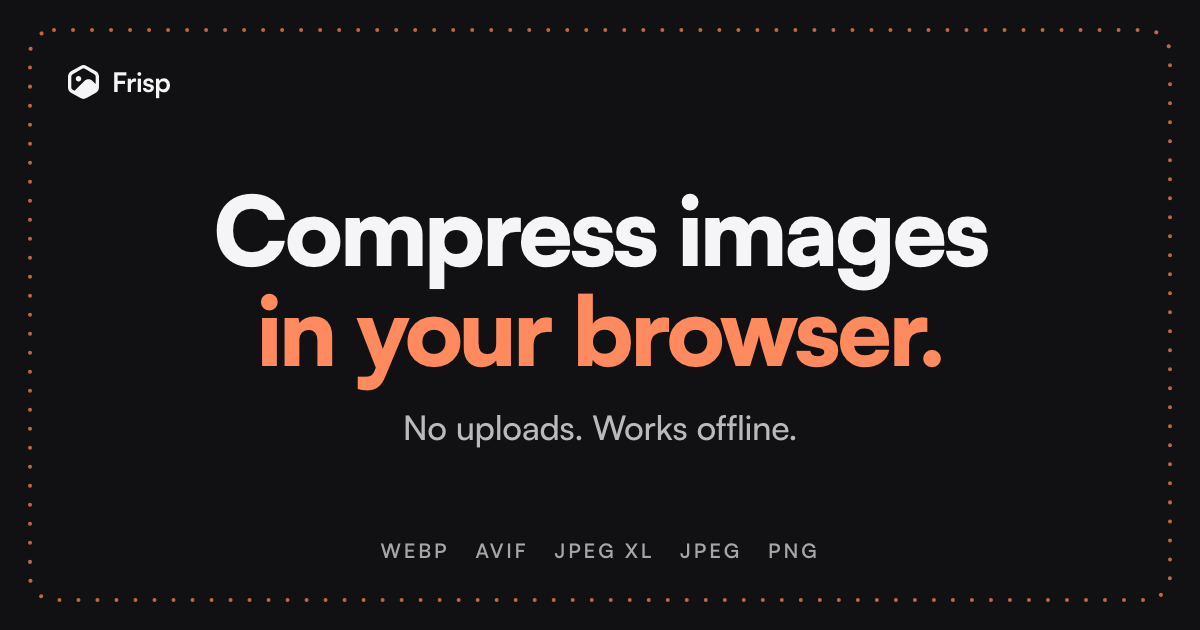
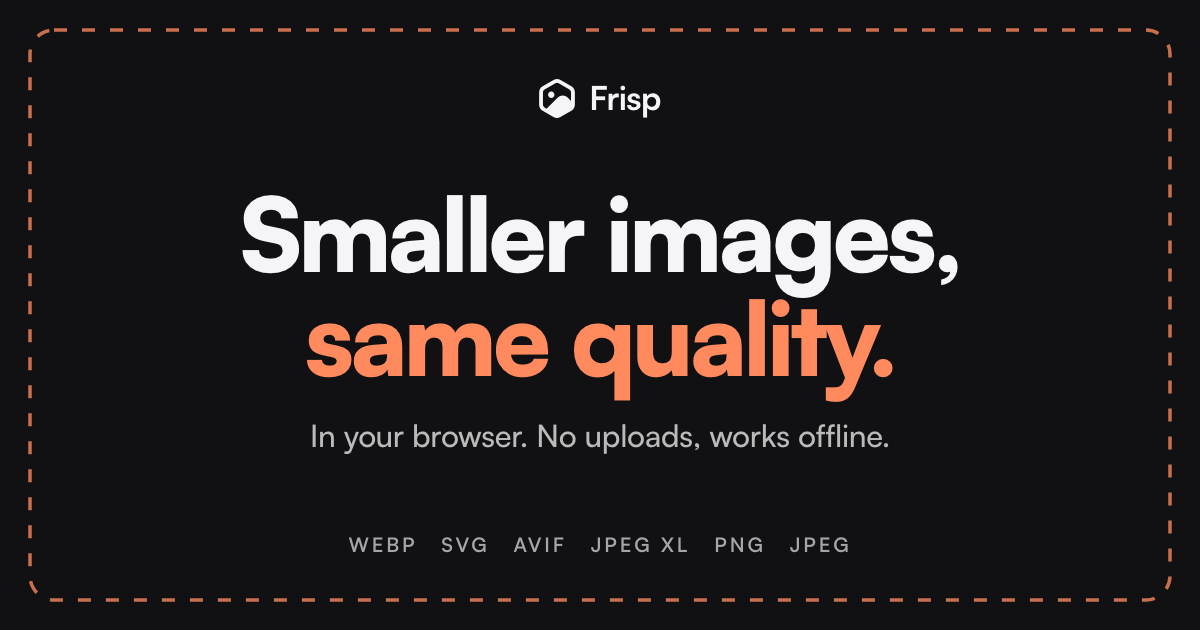
redesign: balance the social card, and add the SVG format it was missing
Maintainer review, third round.

Balance: the brand moves from the top-left HUD to a centred lockup, and gets big
enough to actually read the name. Round two copied the landing's layout too
literally. A web page can hang chrome off one corner because the viewport is
understood to continue; a card is a fixed graphic, where the same lockup just reads
as unbalanced. The card now borrows the landing's language (dark surface, dashed
viewfinder, Satoshi 900, quiet uppercase format row) and not its arrangement: three
bands on one centre axis.

Dashes, not dots: 13 15 at 3.5px, replacing round caps on a near-zero dash length,
which were too thin and fussy. Verified still visibly broken at 180px wide.

SVG was missing from the format list, and the app's vector lane is a daily-driver
capability. The cause matters because it is repeatable: README.md lists the raster
encoders in one sentence and SVG on a separate bullet, so flattening that sentence
into a list loses it silently. The authority is the formats array in Intro.svelte,
which the landing itself renders, with SVG second. The same omission had reached the
meta description and og:description; both now name it, still inside 160 characters.

Copy: the card said one claim twice. "Compress images in your browser" over "No
uploads. Works offline." is the same point wearing two hats. It now leads with the
benefit, "Smaller images, same quality.", and states the mechanism once underneath.
[…]

diff --git a/src/app.html b/src/app.html
@@ -32,7 +32,7 @@
     <title>Frisp - Compress and convert images in your browser</title>
     <meta
       name="description"
-      content="Compress and convert images to WebP, AVIF, JPEG XL, JPEG, or PNG right in your browser. Resize, compare before and after, and export. Nothing is uploaded."
+      content="Compress images to WebP, AVIF, JPEG XL, PNG or JPEG and optimize SVGs, right in your browser. Compare before and after, resize, and export. Nothing is uploaded."
     />
     <link rel="canonical" href="https://frisp.app/" />
 
@@ -43,7 +43,7 @@
     <meta property="og:title" content="Frisp" />
     <meta
       property="og:description"
-      content="Compress and convert images to WebP, AVIF, JPEG XL, JPEG, or PNG right in your browser. Resize, compare before and after, and export. Nothing is uploaded."
+      content="Compress images to WebP, AVIF, JPEG XL, PNG or JPEG and optimize SVGs, right in your browser. Compare before and after, resize, and export. Nothing is uploaded."
     />
     <meta property="og:url" content="https://frisp.app/" />
     <!-- Absolute URL required: crawlers do not resolve relative image paths.
@@ -53,7 +53,7 @@
     <meta property="og:image:height" content="630" />
     <meta
       property="og:image:alt"
-      content="A dark card inside a dotted orange viewfinder. Large bold text reads: compress images in your browser. Below it, no uploads, works offline."
+      content="A dark card inside a dashed orange viewfinder. The Frisp logomark and name sit above large bold text reading: smaller images, same quality. Below it: in your browser, no uploads, works offline."
     />
     <!-- X and several other consumers fall back to the og:* tags above for
          title, description, and image, so only the card type needs declaring. -->

diff --git a/docs/seo.md b/docs/seo.md
@@ -61,10 +61,27 @@ The description leads with formats and actions rather than the privacy promise,
 because it has to match what people type into a search box ("convert png to
 webp"), and the no-upload line still closes it:
 
-> Compress and convert images to WebP, AVIF, JPEG XL, JPEG, or PNG right in your
-> browser. Resize, compare before and after, and export. Nothing is uploaded.
+> Compress images to WebP, AVIF, JPEG XL, PNG or JPEG and optimize SVGs, right in
+> your browser. Compare before and after, resize, and export. Nothing is uploaded.
 
-`og:title` is just `Frisp`. The card image already carries the tagline, so a full
+Kept at 160 characters or fewer, which is roughly where Google truncates.
+
+**The format list must name SVG.** The vector lane is a headline capability and
+one of the reasons the app gets used daily, but it is easy to drop: `README.md`
+lists the raster encoders in one sentence ("Encode to WebP, AVIF, JPEG XL...") and
+SVG on a separate bullet, so flattening that sentence into a format list silently
+loses it. The authority is the `formats` array in
+`src/lib/editor/intro/Intro.svelte`, which the landing itself renders, with SVG
+second. Copy the order from there rather than from prose.
+
+**The card and the description carry different messages, on purpose.** The
+description does search-intent work, so it is capability-led and lists formats. The
+card is seen by someone who already has the link in front of them, so it leads with
+the benefit ("Smaller images, same quality.") and states the mechanism once, in a
+subline. Saying "in your browser" in a headline and then "no uploads, works
+offline" underneath would be the same claim twice inside one small graphic.
+
+`og:title` is just `Frisp`. The card image already carries the message, so a full
 sentence there repeats itself inside one preview.
 
 The Squoosh-successor angle ("a maintained fork of Squoosh") is real and valuable
@@ -77,27 +94,29 @@ README content rather than in the description, which has one job.
 `scripts/generate-social-card.mjs` (`npm run social-card`). It is generated rather
 than hand-made so it stays reproducible: the mark comes from
 `src/lib/brand/logomark.svg`, the palette from the dark half of the same `--i-*`
-token contract `Intro.svelte` declares, and the wordmark from the shipped Satoshi
-face. Playwright renders it, and was already a devDependency.
+token contract `Intro.svelte` declares, the format list from the array the landing
+renders, and the wordmark from the shipped Satoshi face. Playwright renders it, and
+was already a devDependency.
 
-**The composition mirrors the production landing**, because a preview should look
-like the page behind the link. Keep the two in step when the landing changes:
+**It borrows the landing's language, not its layout.** Dark `#111113` surface,
+dashed viewfinder, Satoshi at weight 900 with tight tracking, and the quiet
+uppercase format row are all the landing's. The arrangement is not: a web page can
+hang chrome off one corner because the viewport is understood to continue, while a
+card is a fixed graphic where an off-centre lockup just reads as unbalanced. So the
+card is three bands on one centre axis: brand, message, formats.
 
-- Dark surface (`#111113`) and the dotted viewfinder, as on the landing.
-- Brand reduced to small HUD micro-copy top-left, exactly where the landing puts
-  it. The mark is chrome here, not the subject.
-- The statement headline is the hero, at the landing's weight 900 and -0.035em
-  tracking, with one full-strength accent moment on `in your browser.`
-- Format list along the bottom in the landing's `.hud-line` treatment: uppercase,
-  0.14em tracking, muted.
+Craft notes worth keeping:
 
-Two craft notes worth keeping:
-
-- **The dots need different geometry than the landing.** The landing's
-  `stroke-dasharray="7 9"` is right at viewport scale but collapses into a solid
-  hairline once a card is shrunk to a thumbnail. The card uses round caps on a
-  near-zero dash length, which reads unmistakably as dots at any size.
-- **The frame accent is dialled to 72%** so it stays chrome. At full strength it
+- **The frame needs different dash geometry than the landing.** The landing's
+  `stroke-dasharray="7 9"` at 1.5px is right at viewport scale but collapses into a
+  solid hairline once a card is shrunk to a thumbnail. The card uses `13 15` at
+  3.5px: long enough to read as dashes, with a gap wide enough to stay visibly
+  broken at 180px wide. Round dots were tried first and were too thin and too
+  fussy.
+- **The brand is centred and readable, not tucked into a corner.** It is still
+  small enough that the headline is the subject, but a preview should let someone
+  read the name.
+- **The frame accent is dialled to 78%** so it stays chrome. At full strength it
   competes with the headline, and the card should have one accent focal point.
 - **The surface is flat, and that is a byte decision as much as a visual one.** A
   soft accent glow behind the headline tripled the file, 203 kB against 58 kB,

diff --git a/docs/project/worklog.md b/docs/project/worklog.md
@@ -30,19 +30,36 @@ the wrong deal, so `app.html` is now a documented rename touch-point in
 
 Social card: `static/social-card.png` from the new
 `scripts/generate-social-card.mjs` (`npm run social-card`), so it is reproducible
-from the canonical logomark, the intro's token values, and the shipped Satoshi face
-via Playwright. The composition mirrors the production landing: dark surface,
-dotted viewfinder, brand as small HUD micro-copy top-left, the statement headline
-as the hero. A real editor screenshot would sell the product harder but the
+from the canonical logomark, the intro's token values, the format array the landing
+renders, and the shipped Satoshi face via Playwright. Dark surface and dashed
+viewfinder in the landing's language, brand centred and readable, and the benefit
+headline as the hero. A real editor screenshot would sell the product harder but the
 re-style direction is still open, so it would go stale.
 
-Two things the first attempt got wrong, both worth remembering. The card was
-built light with a big centered logo lockup, which buried the message under the
-mark; the landing's own hierarchy (tiny brand in the HUD, headline as hero) was
-the right reference all along. And a CSS `2px dashed` border reads as a flat
-hairline once a card is scaled to a thumbnail, so the dots use round caps on a
-near-zero dash length instead. Checking the card at 300px and 180px wide is now
-part of the routine, since that is the size a preview actually renders at.
+It took three rounds of maintainer review to get there, and each correction is
+worth keeping:
+
+- **Round 1 was light with a big centred logo lockup**, which buried the message
+  under the mark. The landing's hierarchy (small brand, headline as hero) was the
+  right reference all along.
+- **Round 2 copied the landing's layout too literally**, hanging the brand in the
+  top-left HUD. That works on a web page, where the viewport is understood to
+  continue, and reads as unbalanced on a fixed graphic. Borrow a page's language,
+  not its arrangement. It also left the name too small to read.
+- **Dashes, not dots, and not CSS `dashed`.** A `2px dashed` border reads as a flat
+  hairline at thumbnail size, and round dots on a near-zero dash length were too
+  thin and fussy. `13 15` at 3.5px reads as deliberate dashes at every size.
+- **The format list dropped SVG**, the app's daily-driver capability. The cause is
+  worth knowing: `README.md` lists the raster encoders in one sentence and SVG on a
+  separate bullet, so flattening that sentence loses it silently. The authority is
+  the `formats` array in `Intro.svelte`. The same omission had reached the meta
+  description, which is now fixed too.
+- **The copy said the same thing twice.** "Compress images in your browser" plus
+  "No uploads. Works offline." is one claim wearing two hats. The card now leads
+  with the benefit and states the mechanism once underneath.
+
+Checking the card at 300px and 180px wide is now part of the routine, since that is
+the size a preview actually renders at.
 
 Verified beyond the build artifact: fetched the served HTML in the preview and
 confirmed the raw bytes a non-JS crawler receives carry every tag, that
